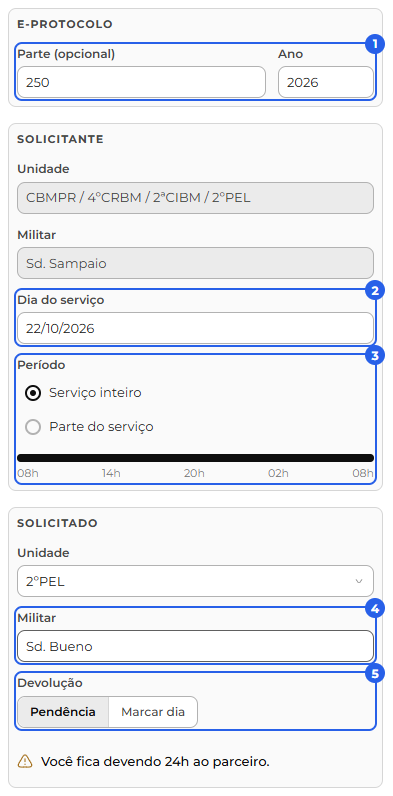
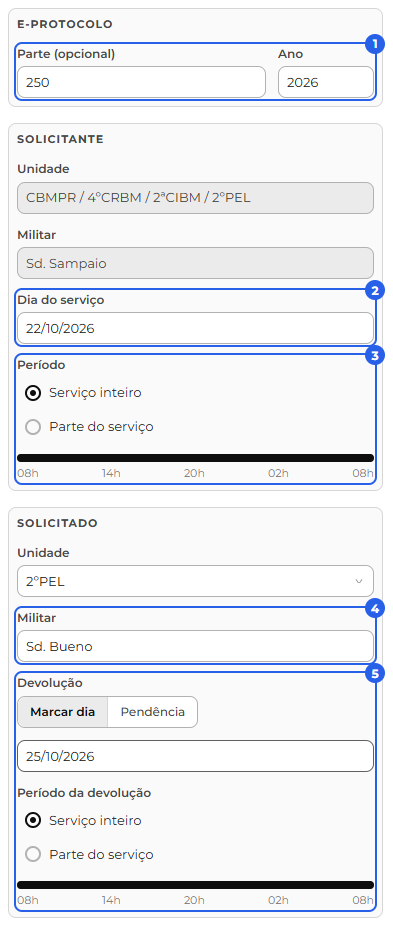
1

Changed region(s): [[0.0305, 0.0, 0.9771, 0.995]]

diff --git a/manual.html b/manual.html
@@ -1037,10 +1037,10 @@
               <ul class="manual-lista">
                 <li><strong>E-protocolo</strong> (1): o número da <strong>Parte</strong> e o <strong>Ano</strong>. A Parte é opcional: deixe em branco se ela ainda não existe. Preenchida, ela vai com o ano, que já vem com o ano atual e pode ser mudado.</li>
                 <li><strong>Solicitante</strong> (você): escolha o <strong>dia do serviço</strong> (2) que quer passar e, no <strong>período</strong> (3), deixe em <strong>Serviço inteiro</strong> ou escolha <strong>Parte do serviço</strong> e marque o início e o fim, com a régua do dia mostrando o trecho.</li>
-                <li><strong>Solicitado</strong>: escolha a <strong>unidade</strong> e o <strong>militar</strong> (4) que vai cobrir. Quem já está de serviço no horário, ou afastado no dia (férias, licença ou dispensa), aparece apagado, com o motivo, e não pode ser escolhido. Quem ainda não tem conta no sistema aparece com "sem conta no sistema" e pode ser escolhido normalmente. Em <strong>Devolução</strong> (5), deixe em <strong>Pendência</strong> (você fica devendo o serviço, para acertar mais tarde) ou escolha <strong>Marcar dia</strong> (aponte um dia do colega e o período que você cobre em troca).</li>
+                <li><strong>Solicitado</strong>: escolha a <strong>unidade</strong> e o <strong>militar</strong> (4) que vai cobrir. Quem já está de serviço no horário, ou afastado no dia (férias, licença ou dispensa), aparece apagado, com o motivo, e não pode ser escolhido. Quem ainda não tem conta no sistema aparece com "sem conta no sistema" e pode ser escolhido normalmente. Em <strong>Devolução</strong> (5), <strong>Marcar dia</strong> já vem escolhido: aponte o dia do colega e o período que você cobre em troca. Se vocês ainda não combinaram o dia, escolha <strong>Pendência</strong> (você fica devendo o serviço, para acertar mais tarde).</li>
               </ul>
               <figure class="manual-figura">
-                <img src="manual/imagens/troca-solicitar.png" width="393" height="796" alt="Painel Solicitar troca: a parte do E-protocolo, com o número e o ano (1), o dia do serviço (2), o período, serviço inteiro ou parte do serviço (3), o militar que vai cobrir (4) e a devolução (5)." />
+                <img src="manual/imagens/troca-solicitar.png" width="393" height="926" alt="Painel Solicitar troca: a parte do E-protocolo, com o número e o ano (1), o dia do serviço (2), o período, serviço inteiro ou parte do serviço (3), o militar que vai cobrir (4) e a devolução, com Marcar dia, o dia do colega e o período (5)." />
                 <figcaption>
                   <ol class="manual-chamadas">
                     <li>Parte do E-protocolo: número e ano</li>

diff --git a/aplicativo-armazem.js b/aplicativo-armazem.js
@@ -12,9 +12,10 @@
    Versão nova: baixa só o que mudou (copia o resto da versão
    anterior) e espera o sinal "ativar" da página, que troca de
    versão sem misturar a velha com a nova (geral-aplicativo.js).
-   SOB_DEMANDA (as bibliotecas, como a do PDF): nunca baixadas na
-   instalação; guardadas no primeiro uso e levadas para a versão
-   nova enquanto a impressão digital não mudar.
+   SOB_DEMANDA (as bibliotecas, como a do PDF, e as imagens do
+   manual): nunca baixadas na instalação; guardadas no primeiro uso
+   e levadas para a versão nova enquanto a impressão digital não
+   mudar.
    Botão de emergência: REGRAS §8.1.
    ============================================================ */
 (function () {
@@ -108,8 +109,8 @@
     }).then(function () { return self.clients.claim(); }));
   });
 
-  /* arquivo do site: do aparelho; o sob demanda ainda não usado, da internet pela impressão digital
-     e guardado; fora das listas (as imagens do manual), da internet e guardado ao usar */
+  /* arquivo do site: do aparelho; o sob demanda ainda não usado (as bibliotecas e as imagens do manual),
+     da internet pela impressão digital e guardado; fora das listas (os logos de acervo), da internet */
   function responder(pedido) {
     var url = new URL(pedido.url);
     var chave = /\/$/.test(url.pathname) ? endereco('index.html') : pedido;   /* a raiz do site é o index.html */
@@ -123,10 +124,7 @@
             return resposta;
           });
         }
-        return fetch(pedido).then(function (resposta) {
-          if (resposta.ok && url.href.indexOf(endereco('manual/imagens/')) === 0) cache.put(pedido, resposta.clone());
-          return resposta;
-        });
+        return fetch(pedido);
       });
     });
   }

diff --git a/js/trocas-solicitar-campos.js b/js/trocas-solicitar-campos.js
@@ -323,10 +323,10 @@
     RW.abas.ligar(trilho, function (aba) {
       if (aba.getAttribute('data-dev') === 'pendente') {
         f.devDia = null; f.devSel = null;
+        q('#ts-dev-data').value = '';
         q('#ts-dev-data').classList.add('oculto');
         q('#ts-periodo-devolucao').classList.add('oculto');
         limparErro(q('#ts-dev-data'));
-        atualizarSaldo();
       } else {
         q('#ts-dev-data').classList.remove('oculto');
         /* o período aparece já no modo "Marcar dia", desligado; liga quando o dia for escolhido */
@@ -334,8 +334,11 @@
         else f.periodoDevolucao.limpar();
         q('#ts-periodo-devolucao').classList.remove('oculto');
       }
+      atualizarSaldo();
       avisarMudanca();
     });
+    /* o molde já abre em "Marcar dia": o período da devolução nasce desligado, até escolher o dia */
+    if (devMarcarDia() && !f.periodoDevolucao) montarPeriodoDevolucao();
   }
   function escolherDiaDevolucao(data) {
     var iso = isoDe(data);
@@ -360,6 +363,8 @@
     var m = RW.mensagens.trocas;
     /* o aviso mostra o saldo LÍQUIDO com o parceiro, então depende dos dois: serviço e parceiro */
     if (f.registrar || !f.servicoSel || !f.parceiroSel) { elSaldo.classList.add('oculto'); return; }
+    /* no "Marcar dia", o aviso espera o dia da devolução (sem ele, diria que o serviço inteiro fica devido) */
+    if (devMarcarDia() && !f.devDia) { elSaldo.classList.add('oculto'); return; }
     /* ainda buscando o saldo já existente entre os dois: três pontinhos */
     if (f.saldoCarregando || f.saldoEntre === null || f.saldoEntre === undefined) {
       elTexto.textContent = '';

diff --git a/componentes/js/geral-mensagens.js b/componentes/js/geral-mensagens.js
@@ -1053,7 +1053,7 @@
       modalCarregarFalha: 'Não foi possível carregar',
       modalSemServico: 'Você não tem serviço futuro para trocar',
       modalDevPendente: 'Deixar pendente',
-      modalDevAjuda: 'Escolha um dia do parceiro, ou deixe pendente.',
+      modalDevAjuda: 'Escolha um dia do parceiro, ou marque pendente.',
       /* aviso de saldo (quando as durações diferem) */
       saldoParceiroDeve: function (h) { return 'O parceiro fica devendo ' + h + 'h a você.'; },
       saldoVoceDeve: function (h) { return 'Você fica devendo ' + h + 'h ao parceiro.'; },

diff --git a/js/trocas-editar.js b/js/trocas-editar.js
@@ -192,6 +192,9 @@
       }
       if (t.devolucao_horario_inicio && t.devolucao_horario_fim) ctx.periodoDevolucao.definirParte(hhmm(t.devolucao_horario_inicio), hhmm(t.devolucao_horario_fim));
       ctx.devSel = ctx.periodoDevolucao.valor();
+    } else {
+      var pendente = q('#ts-dev-toggle [data-dev="pendente"]');
+      if (pendente) pendente.click();   // a troca sem devolução: o seletor em "Pendência" (o molde abre em "Marcar dia")
     }
     ctx.preenchendo = false;
     travarSalvar(false);

diff --git a/trocas.html b/trocas.html
@@ -167,6 +167,7 @@
           <button type="button" class="aba" data-dev="pendente">Pendência</button>
         </div>
         <input type="text" class="campo-entrada trocas-dev-data" id="ts-dev-data" readonly placeholder="Dia do parceiro" />
+        <span class="campo-erro-texto"></span>
       </div>
       <div class="campo trocas-periodo" id="ts-periodo-devolucao">
         <span class="campo-rotulo">Período da devolução</span>

diff --git a/js/trocas-solicitar.js b/js/trocas-solicitar.js
@@ -307,6 +307,8 @@
     }
 
     C().ligarDevToggle();
+    /* cobrança: quem paga a dívida não ganha devolução (o seletor vai para Pendência) */
+    if (ctx.cobrar) { var pendente = q('#ts-dev-toggle [data-dev="pendente"]'); if (pendente) pendente.click(); }
     ligarLimpezaErros(corpo);
     ligarSoNumeros(q('#ts-parte'));
     ligarSoNumeros(q('#ts-parte-ano'));
